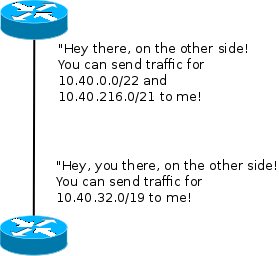
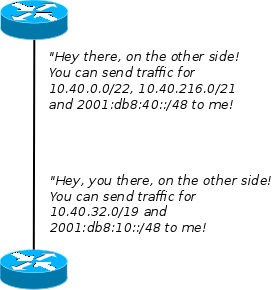
BGP intro: up until hands on

Changed region(s): [[0.0, 0.0, 0.8824, 1.0], [0.1765, 0.5938, 1.0, 0.8125]]

diff --git a/bgp-intro/README.md b/bgp-intro/README.md
@@ -1,55 +1,47 @@
 BGP
 ===
 
-Blablabla, work in progress here.
+In the previous tutorial, we discovered how to let [OSPF](/ospf-intro/README.md) dynamically configure routing inside a network. This tutorial provides an introduction to another routing protocol, which is BGP, the Border Gateway Protocol. As the name implies, this protocol acts on the border of a network. Where OSPF is well suited to keep track of all tiny details of what's happening in our internal network, BGP will be talking to the outside world to interconnect our network with other networks, managed by someone else.
 
-In the [previous tutorial, we discovered how to let OSPF dynamically configure routing](/ospf-intro/README.md) in a network.
+## BGP Essentials
 
-This tutorial provides an introduction to another routing protocol, which is BGP, the Border Gateway Protocol.
-
-BGP is not an alternative to OSPF. It's used for different things.
-
-To start off quickly, here's the bare essentials:
+When routers talk BGP to each other, they essentially just claim that network ranges are reachable via them:
 
 ![BGP network, barebones](/bgp-intro/bgp-heythere.png)
 
-When routers talk BGP to each other, they just claim that some network ranges are reachable via them. Voila.
-
-Ok, a bit less simplified:
+Let's look at the same picture again, hiding less information:
 
 ![BGP network, less simplified](/bgp-intro/bgp-hey2.png)
 
- * Between routers: small subnet, like an IPv4 /30 or /31, which only contains the two routers.
- * Often direct links, in this bird/openvswitch tutorial just use a vlan
- * A complete network under control of somebody has an AS number, an Autonomous System
+The picture shows two networks, which are interconnected through router `R3` and `R10`.
+
+ * A complete network under control of somebody has an AS ([Autonomous System](https://tools.ietf.org/html/rfc1930)) number. By specifying the AS number when configuring BGP connections, we let it know if the neighbour is in our own network (our AS), or in an external network (another AS).
+ * If neighbouring routers between different networks are directly connected, they often interconnect using a minimal sized network range. For IPv4, this is usually a `/30` and for IPv6 a `/120` or a `/126` prefix, containing only the two routers. In the example above, the small network ranges are taken from the network of `AS64080`.
+ * The routes that are published to another network are as aggregated as possible, to minimize the amount of them. While the internal routing table in for example AS64080 might contain dozens of prefixes, for each little vlan, and probably a number of single host routes (IPv4 `/32` and IPv6 `/128`), they're advertised to the outside as just three routes in total.
 
 ## OSPF vs. BGP
 
-While the title of this section might seem logical, since we're considering BGP after just having spent quite some time on OSPF, it's actually a non-issue. OSPF and BGP are two very different routing protocols, which are used to get different things done.
+While the title of this section might seem logical, since we're considering BGP after just having spent quite some time on OSPF, it's actually a non-issue. OSPF and BGP are two very different routing protocols, which are used to get different things done. Nonetheless, let's look at some differences:
 
 OSPF:
- * routes in the network are originated by putting ip addresses on a network interface of a router, not manually defined
- * these are addresses and subnets that are actually in use
- * every router has a full detailed view on the network using link state updates that are broadcasted over the network
+ * Routes in the network are originated by just putting ip addresses on a network interface of a router, and letting the routing protocol pick them up automatically.
+ * The routes in OSPF are addresses and subnets that are actually in use.
+ * Every router that participates in the OSPF protocol has a full detailed view on the network using link state updates that are broadcasted over the network.
 
 BGP:
- * only publish "umbrella" ranges, not much detail
- * there is no actual proof that the addresses are actually in use.
- * routers know that some prefix is reachable via another network, but where OSPF shortest path deals with knowledge about all separate routers, paths and weights, BGP just looks on a higher level, the shortest path, considering a complete network being one step.
+ * Routes that are published to other networks are "umbrella ranges", which are as big as possible and are defined manually.
+ * There is no actual proof that the addresses which are advertised are actually in use inside the network.
+ * A neighbour BGP router knows that some prefix is reachable via another network, but where OSPF shortest path deals with knowledge about all separate routers, paths and weights, BGP just looks on a higher level, the shortest path, considering a complete network (AS) being one step.
 
 So, OSPF is an IGP (Interior Gateway Protocol) and BGP is an EGP (Exterior Gateway Protocol). BGP can connect OSPF networks to each other, hiding a lot of detail inside them.
 
-![BGP network, three ASses](/bgp-intro/bgp-hey3.png)
+## BGP and OSPF with BIRD
 
-R2 tells R3 that it may send traffic for `10.2.0.0/16` and `10.1.0.0/16` to it. It also provides an AS-path with each route. The route `10.2.0.0/16` only has `65002` as AS-path, so R3 knows that this route originates from `AS65002`. The route `10.1.0.0/16` has an AS-path of `65002,65001`, so R3 will learn that this route actually originates from `AS65001`, and apparently `AS65002` wants to relay traffic to it through its own network.
-
-But, later. First of all, do it with bird, build full example.
-
-## BIRD BGP
+In the second half of this tutorial we'll configure a network, using OSPF, BGP and the BIRD routing software. BGP wise, it's kept simple, using just a single connection between two networks.
 
 ![BGP and OSPF network](/bgp-intro/bgp-ospf.png)
 
-Whoa, such network.
+It's starting to look serious now!
 
 Hopsa, clone some containers, copy paste configuration
  * already provide bird config with ospf for internal network
